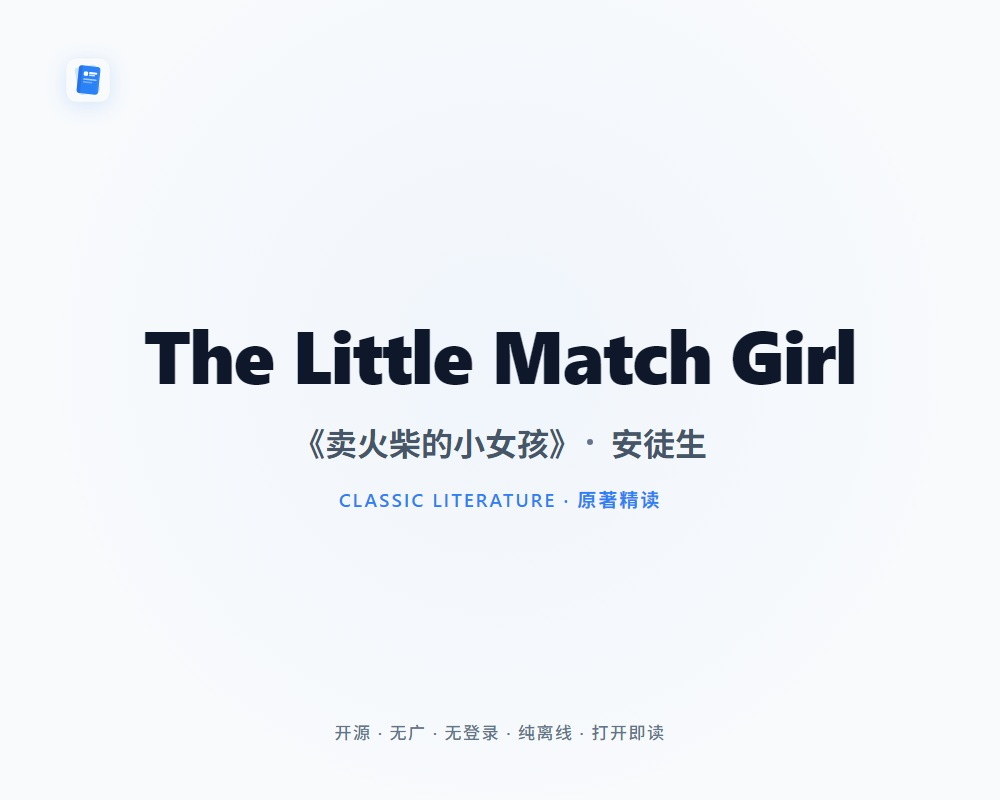
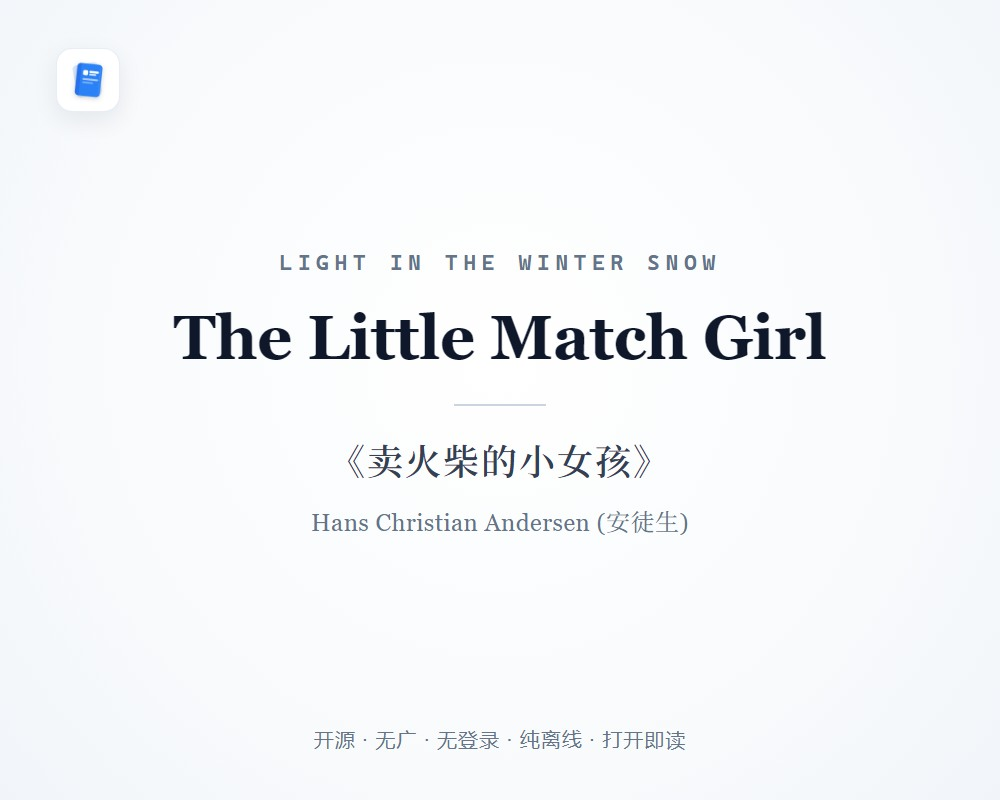
feat(share): 完善胶囊与朋友圈分享，重构典雅扉页分享封面及碎片时间主题文案

diff --git a/src/pages/index/index.vue b/src/pages/index/index.vue
@@ -11,6 +11,7 @@ import { useParagraphDeck } from "@/composables/useParagraphDeck";
 import { fetchWordMeaning, getCachedMeaning } from "@/utils/dictionary";
 import { detectContextPhrase, type DetectedPhrase, type TokenItem } from "@/utils/phraseDetector";
 import { playPronunciation, stopAudio } from "@/utils/audioPlayer";
+import commonUtil from "@/utils/commonUtil";
 
 const CURRENT_STORY_STORAGE_KEY = "handy_reader_current_story_id";
 
@@ -58,22 +59,22 @@ const nextReadCount = computed(() => (readCount.value || 0) + 1);
 // 微信小程序一键转发分享卡片
 onShareAppMessage(() => {
   const isFin = isFinished.value;
-  const count = readCount.value || 1;
   const title = isFin
-    ? `🎉 我刚精读读完了《${currentStory.value.titleZh}》（${currentStory.value.wordCount}词），快来一起读名著！`
-    : `📖 正在精读英文原著《${currentStory.value.titleZh}》，与你共读经典`;
+    ? "用碎片时间读完了一本英文原著，原来这么轻松"
+    : "每天几分钟，用碎片时间读英文原著";
   return {
     title,
     path: `/pages/index/index?storyId=${currentStory.value.id}`,
-    imageUrl: "/static/share-cover.jpg",
+    imageUrl: commonUtil.getShareCoverPath(),
   };
 });
 
 // 微信小程序朋友圈分享
 onShareTimeline(() => {
   return {
-    title: `📖 英语名著精读《${currentStory.value.titleZh}》· HandyReader`,
+    title: "每天几分钟，利用碎片时间轻松读完英文原著",
     query: `storyId=${currentStory.value.id}`,
+    imageUrl: commonUtil.getShareCoverPath(),
   };
 });
 

diff --git a/src/utils/commonUtil.ts b/src/utils/commonUtil.ts
@@ -64,6 +64,49 @@ export const commonUtil = {
       return match[1].trim();
     }
     return raw;
+  },
+  /**
+   * 获取离线分享卡片封面路径
+   * 解决微信开发者工具模拟器及部分微信版本无法解析代码包相对路径导致裂图的问题
+   */
+  getShareCoverPath(): string {
+    // #ifdef MP-WEIXIN
+    try {
+      if (typeof wx !== 'undefined' && wx.getFileSystemManager && wx.env && wx.env.USER_DATA_PATH) {
+        const fs = wx.getFileSystemManager();
+        const targetPath = `${wx.env.USER_DATA_PATH}/handyreader_share_cover_v1.jpg`;
+        let existingSize = -1;
+        try {
+          const stat = fs.statSync(targetPath);
+          existingSize = stat?.size ?? -1;
+        } catch {
+          existingSize = -1;
+        }
+
+        const candidatePaths = ['static/share-cover.jpg', '/static/share-cover.jpg'];
+        for (const p of candidatePaths) {
+          try {
+            const buf = fs.readFileSync(p);
+            if (buf) {
+              if (existingSize !== buf.byteLength) {
+                fs.writeFileSync(targetPath, buf);
+              }
+              return targetPath;
+            }
+          } catch {
+            // try next
+          }
+        }
+
+        if (existingSize > 0) {
+          return targetPath;
+        }
+      }
+    } catch (e) {
+      console.warn('[commonUtil] getShareCoverPath fail:', e);
+    }
+    // #endif
+    return '/static/share-cover.jpg';
   }
 };
 

diff --git a/src/pages/bookshelf/index.vue b/src/pages/bookshelf/index.vue
@@ -1,6 +1,6 @@
 <script setup lang="ts">
 import { ref, computed, nextTick, onMounted, onUnmounted } from "vue";
-import { onShow, onLoad } from "@dcloudio/uni-app";
+import { onShow, onLoad, onShareAppMessage, onShareTimeline } from "@dcloudio/uni-app";
 import type { CatalogItem } from "@/types/reader";
 import catalogData from "@/data/catalog.json";
 import BookCover from "@/components/BookCover.vue";
@@ -28,6 +28,24 @@ const currentStoryId = ref<string>(
 
 // 全局书籍阅读进度字典
 const progressMap = ref<Record<string, StoryProgressData>>({});
+
+// 微信小程序胶囊分享（好友/微信群）
+onShareAppMessage(() => {
+  return {
+    title: "每天几分钟，用碎片时间读英文原著",
+    path: "/pages/bookshelf/index",
+    imageUrl: commonUtil.getShareCoverPath(),
+  };
+});
+
+// 微信小程序朋友圈分享
+onShareTimeline(() => {
+  return {
+    title: "每天几分钟，利用碎片时间轻松读完英文原著",
+    query: "",
+    imageUrl: commonUtil.getShareCoverPath(),
+  };
+});
 
 // 详情弹窗所选书籍
 const previewBook = ref<CatalogItem | null>(null);
